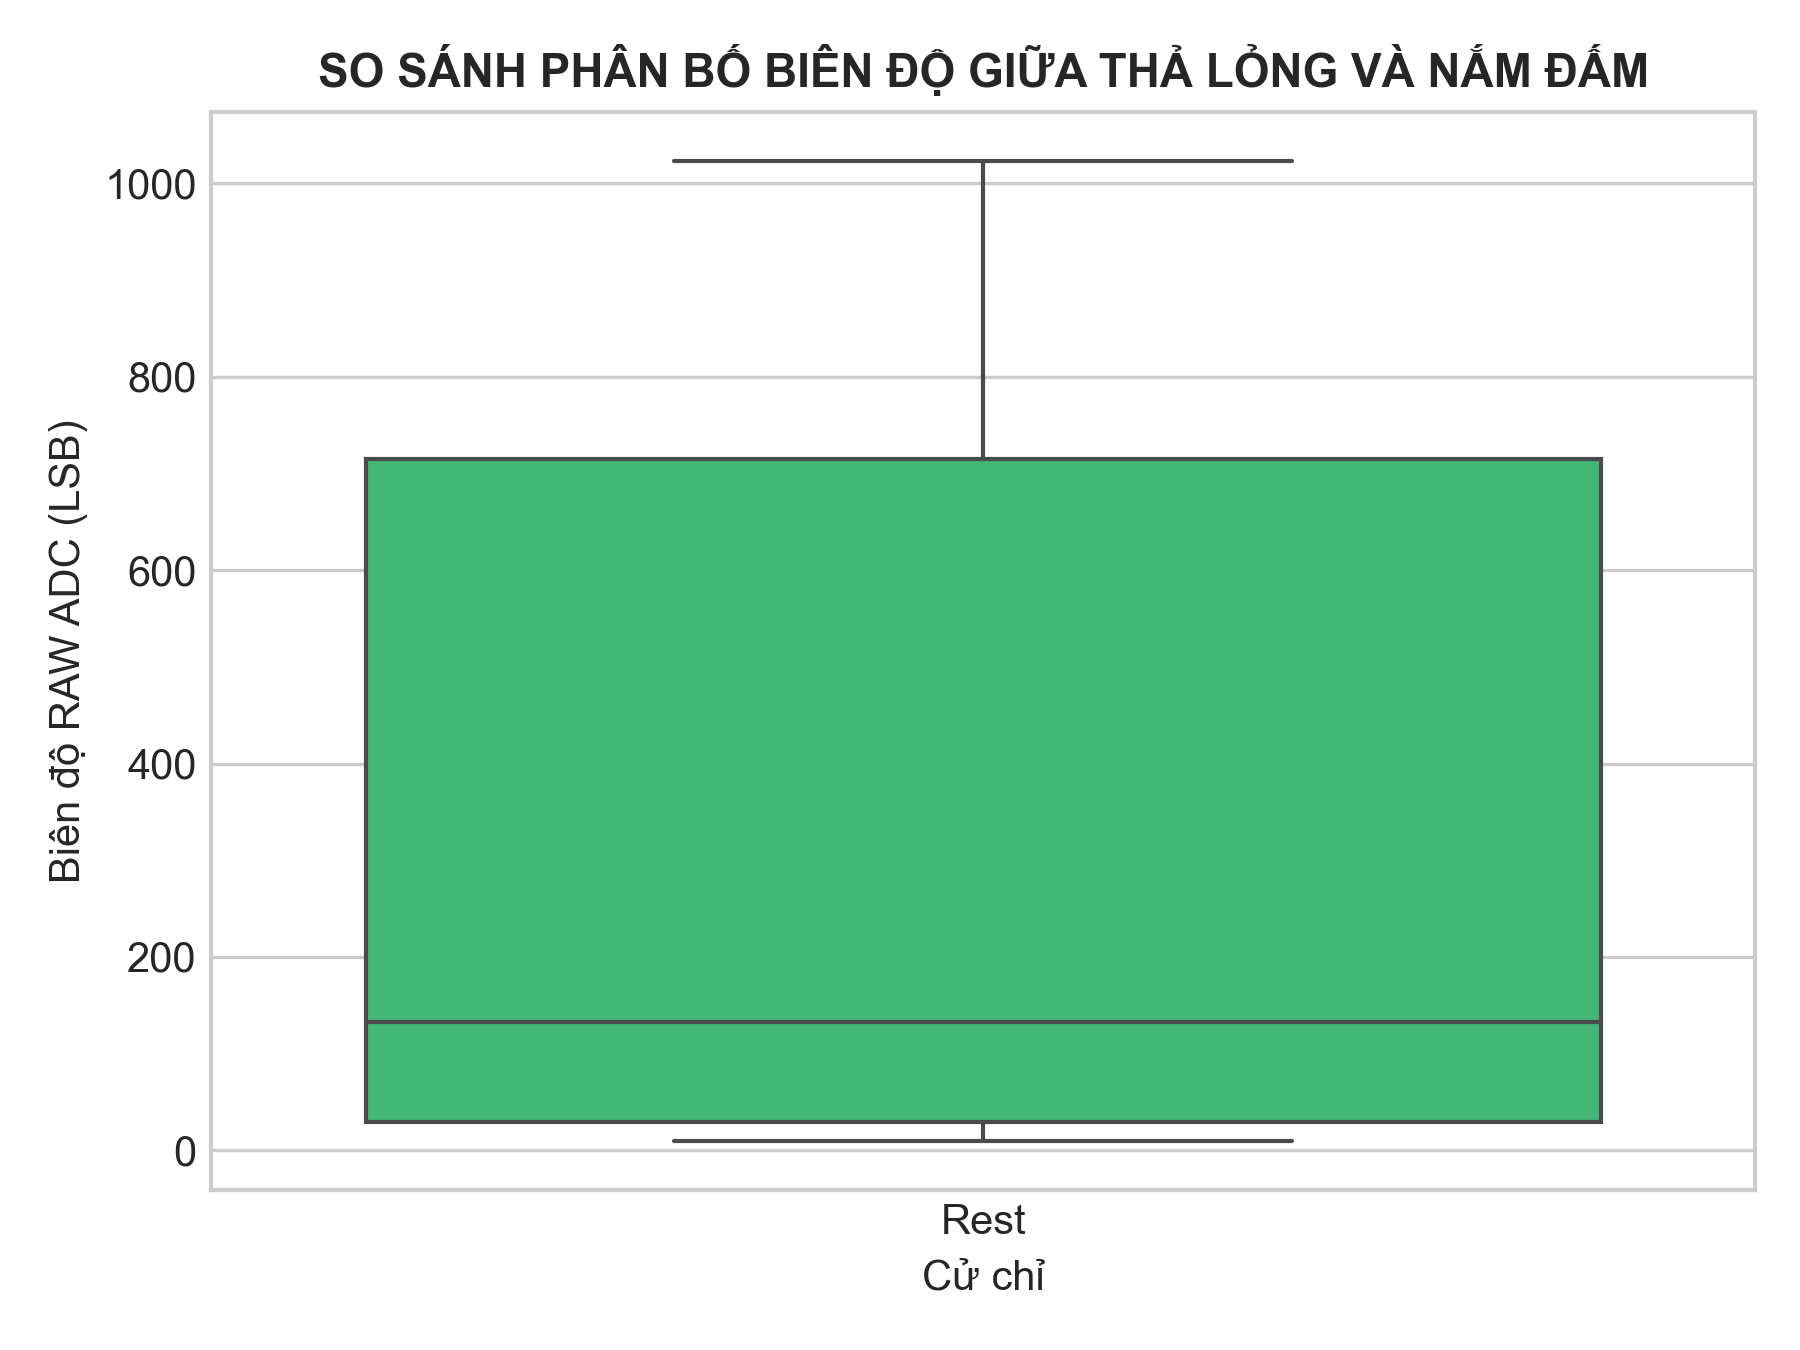
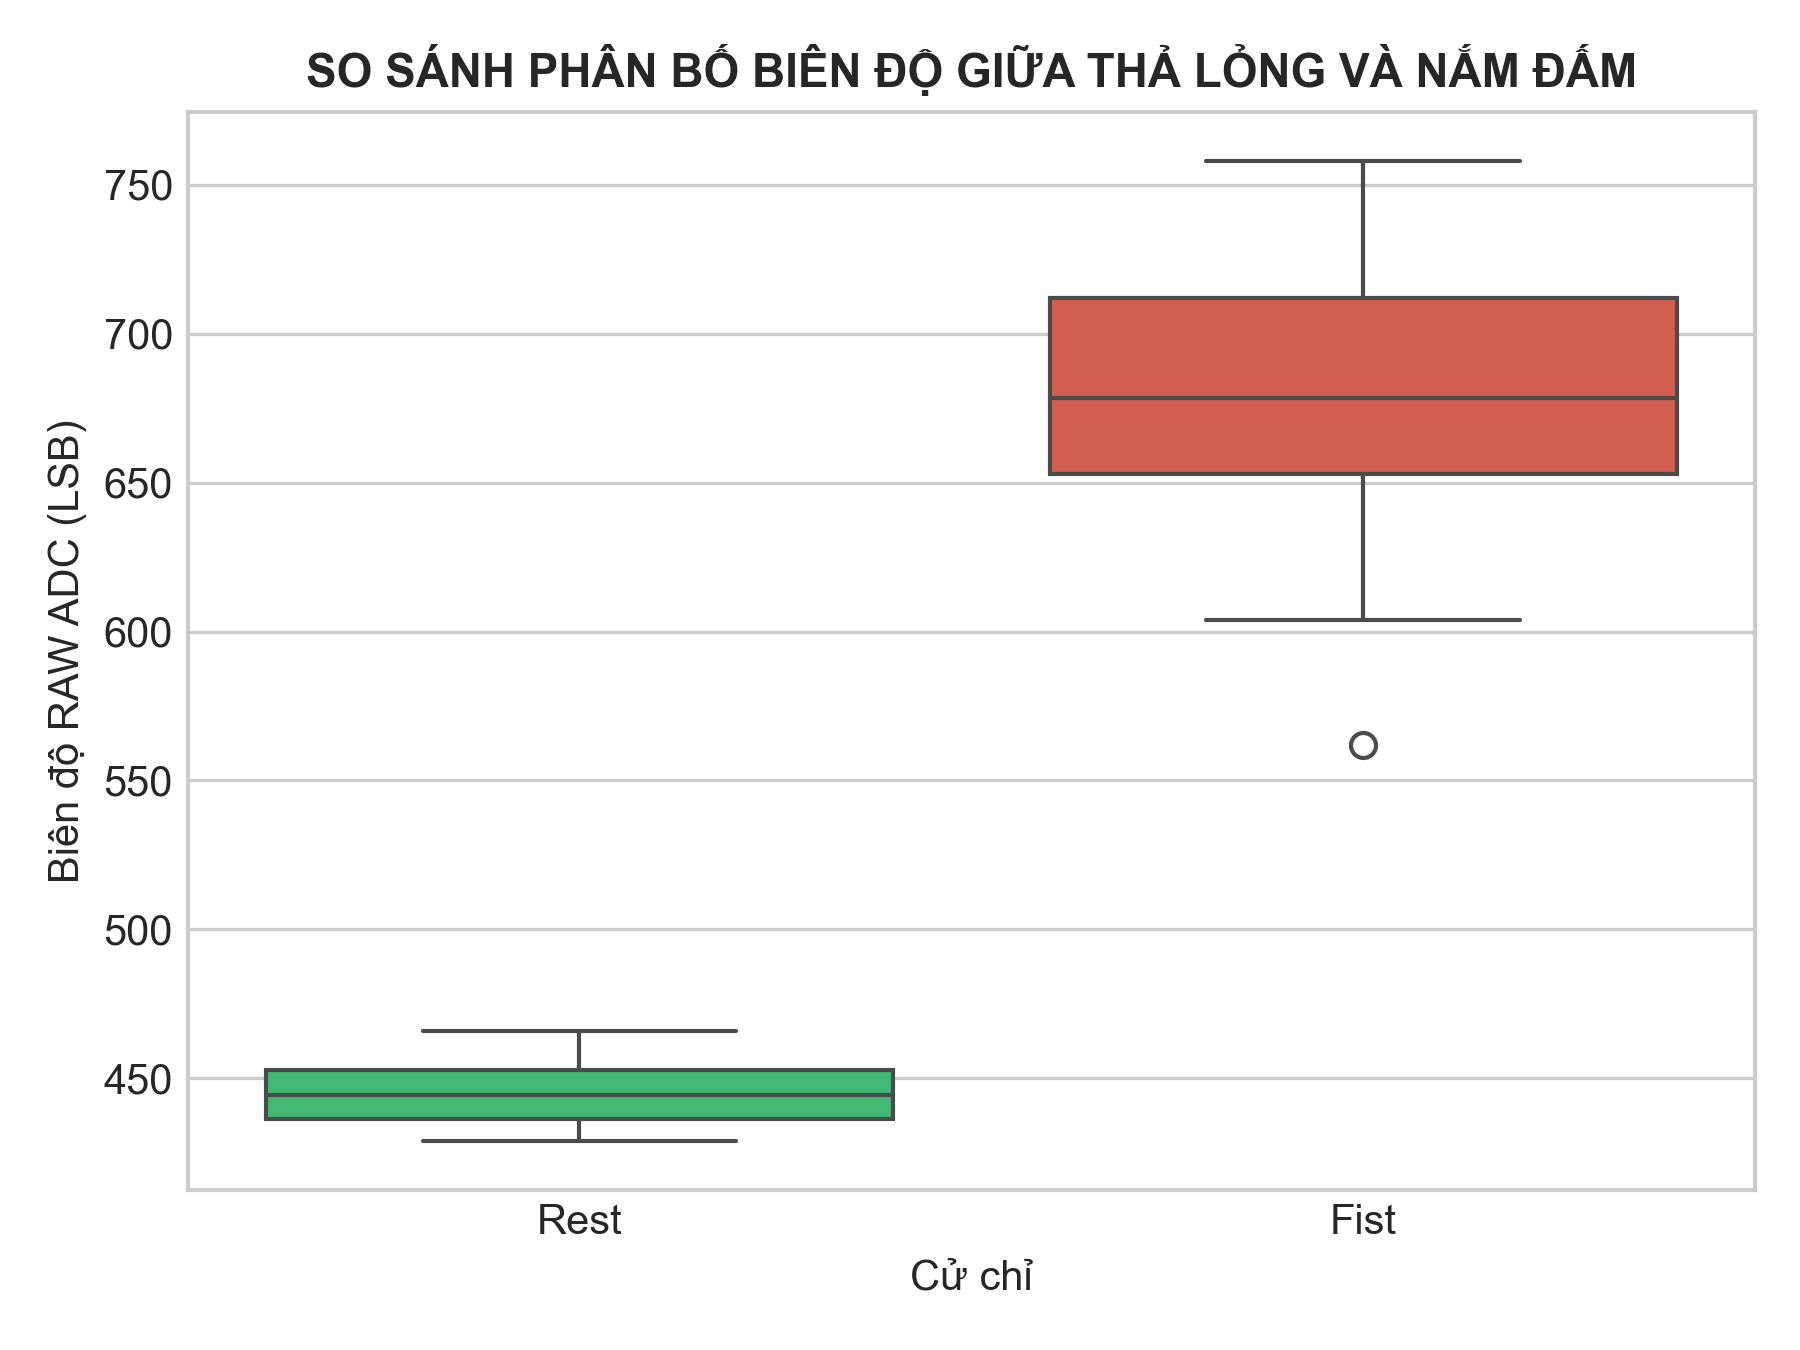
Update

diff --git a/2_plot_report.py b/2_plot_report.py
@@ -1,12 +1,23 @@
+import argparse
+
 import pandas as pd
 import matplotlib.pyplot as plt
 import seaborn as sns
 
+parser = argparse.ArgumentParser(description='Tạo report từ dữ liệu EMG RAW.')
+parser.add_argument(
+    'csv_file',
+    nargs='?',
+    default='emg_raw_dataset.csv',
+    help='Đường dẫn CSV (mặc định: emg_raw_dataset.csv)',
+)
+args = parser.parse_args()
+
 try:
     # Đọc dữ liệu CSV vừa tạo
-    df = pd.read_csv('emg_raw_dataset.csv')
+    df = pd.read_csv(args.csv_file)
 except Exception as e:
-    print("Chưa tìm thấy file 'emg_raw_dataset.csv'. Hãy chạy file 1_collect_data.py trước!")
+    print(f"Không đọc được file '{args.csv_file}'. Hãy kiểm tra đường dẫn và định dạng CSV.")
     exit()
 
 # Cấu hình giao diện đồ thị
